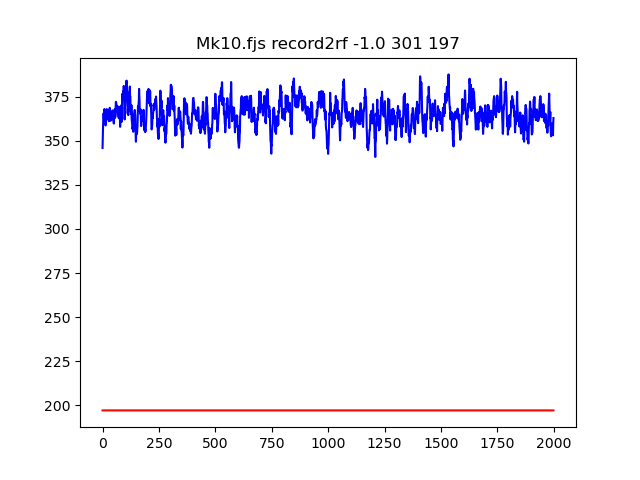
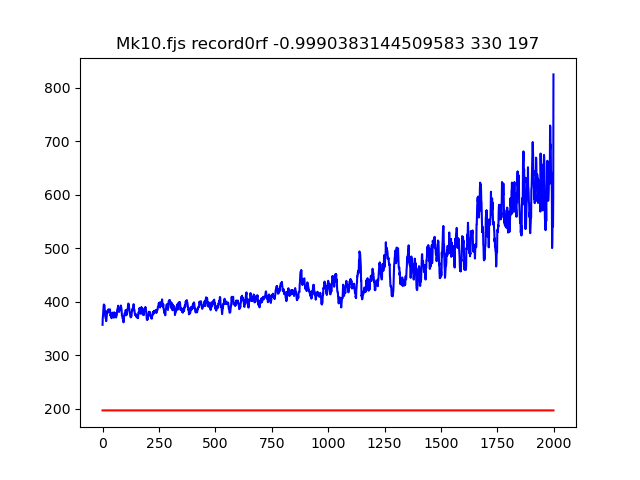
网络和训练代码实现(独立D3QN,网络共享) √ 开始训练    √

diff --git a/scheduling_env/agents.py b/scheduling_env/agents.py
@@ -10,15 +10,20 @@ class Agent():
     def __init__(self,train_params,model_params) -> None:
         
         self.device = train_params['device']
-        self.main_net = None
+        self.main_net = D3QN(
+            state_dim=model_params['state_dim'],
+            action_dim=model_params['action_dim']
+        ).to(self.device)
+        self.target_net = D3QN(
+            state_dim=model_params['state_dim'],
+            action_dim=model_params['action_dim']
+        ).to(self.device)
 
-        self.target_net = None
 
-        # self.target_net.load_state_dict(self.main_net.state_dict())
+        self.target_net.load_state_dict(self.main_net.state_dict())
         
-        # self.optimizer = torch.optim.AdamW(self.main_net.parameters(), lr=train_params['learning_rate'])
-        self.machine_seq_len = model_params['machine_seq_len']
-        self.machine_dim = model_params['machine_dim']
+        self.optimizer = torch.optim.AdamW(self.main_net.parameters(), lr=train_params['learning_rate'])
+
         self.action_dim = model_params['action_dim']
         self.epsilon_start = train_params['epsilon_start']
         self.epsilon_end = train_params['epsilon_end']
@@ -35,42 +40,36 @@ class Agent():
         self.eps_threshold = self.epsilon_end + (self.epsilon_start - self.epsilon_end) * np.exp(
             -1. * step_done / self.epsilon_decay)
         
-        if True or np.random.rand() < self.eps_threshold:
-            return np.random.randint(0,self.action_dim-1)
+        if np.random.rand() < self.eps_threshold:
+            return np.random.randint(0,self.action_dim)
         else:
             with torch.no_grad():
                 state = torch.as_tensor(state).to(self.device,dtype=torch.float).unsqueeze(0)
-                action_mask = torch.as_tensor(action_mask,dtype=torch.bool).to(self.device)
-                q_value = self.main_net(state,action_mask.to(torch.float).unsqueeze(0)).squeeze(0)
-                q_value[~action_mask] = -float('inf')
+                q_value = self.main_net(state).squeeze(0)
                 _,action = torch.max(q_value,dim=-1)
                 action = action.cpu().item()
                 return action
 
     def update(self, transition):
-        "state,actions,next_state,reward,done,next_action_mask"
+        "state,actions,next_state,reward,done"
         states = transition.states
-        actions = transition.actions
+        actions = transition.actions.to(torch.int64)
         rewards = transition.rewards.squeeze(-1)
         dones = transition.dones.squeeze(-1)
         next_states = transition.next_states
-        next_action_masks = transition.next_action_masks.to(torch.bool)
 
         # print(states.shape)
         # print(actions.shape)
         # print(rewards.shape)
         # print(dones.shape)
         # print(next_states.shape)
-        # print(next_action_masks.shape)
-        action_masks = actions[:,1]
-        actions = actions[:,0]
-        q_values = self.main_net(states,action_masks.to(torch.float))
-        Q_values = torch.sum(q_values * actions,dim=1)
+
+        q_values = self.main_net(states)
+        Q_values = q_values.gather(1,actions).squeeze(-1)
         with torch.no_grad():
-            next_q = self.main_net(next_states,next_action_masks.to(torch.float))
-            next_q[~next_action_masks] = -float('inf')
+            next_q = self.main_net(next_states)
             _, max_actions = next_q.max(dim=-1)
-            next_q_values = self.target_net(next_states,next_action_masks.to(torch.float))
+            next_q_values = self.target_net(next_states)
             next_q_values = next_q_values.gather(1,max_actions.unsqueeze(-1)).squeeze(-1)
             Q_targets = rewards + self.gamma * next_q_values * (1 - dones)
 
@@ -82,27 +81,27 @@ class Agent():
         self.optimizer.step()
         with torch.no_grad():
             self.loss += loss.item()
-        # actor_state_dict = self.main_net.state_dict()
-        # target_state_dict = self.target_net.state_dict()
-        # for key in actor_state_dict:
-        #     target_state_dict[key] = actor_state_dict[key] * self.tau + target_state_dict[key] * (1 - self.tau)
-        # self.target_net.load_state_dict(target_state_dict)
-        # if (self.count + 1) % 500 == 0:
-        #     print('loss:',self.loss/500)
-        #     # print('epsilon:',self.eps_threshold)
-        #     self.loss = 0
-        # self.count += 1
+            self.count += 1
+        actor_state_dict = self.main_net.state_dict()
+        target_state_dict = self.target_net.state_dict()
+        for key in actor_state_dict:
+            target_state_dict[key] = actor_state_dict[key] * self.tau + target_state_dict[key] * (1 - self.tau)
+        self.target_net.load_state_dict(target_state_dict)
+        if (self.count + 1) % 500 == 0:
+            print('loss:',self.loss/500)
+            self.loss = 0
+        self.count += 1
         self.count+=1
 
-        if (self.count + 1) % self.target_update == 0:
-            print('loss:',self.loss/self.target_update)
-            actor_state_dict = self.main_net.state_dict()
-            target_state_dict = self.target_net.state_dict()
-            for key in actor_state_dict:
-                target_state_dict[key] = actor_state_dict[key] * self.tau + target_state_dict[key] * (1 - self.tau)
-            self.target_net.load_state_dict(target_state_dict)
-            # print('epsilon:',self.eps_threshold)
-            self.loss = 0
+        # if (self.count + 1) % self.target_update == 0:
+        #     print('loss:',self.loss/self.target_update)
+        #     actor_state_dict = self.main_net.state_dict()
+        #     target_state_dict = self.target_net.state_dict()
+        #     for key in actor_state_dict:
+        #         target_state_dict[key] = actor_state_dict[key] * self.tau + target_state_dict[key] * (1 - self.tau)
+        #     self.target_net.load_state_dict(target_state_dict)
+        #     # print('epsilon:',self.eps_threshold)
+        #     self.loss = 0
 
     def save_model(self, path):
         torch.save(self.main_net.state_dict(), path)

diff --git a/train.py b/train.py
@@ -30,9 +30,8 @@ class Train():
         agent = Agent(train_params, model_params)
         replay_buffer: ReplayBuffer = ReplayBuffer(
             capacity=train_params["buffer_size"],
-            state_seq_len=model_params["job_seq_len"],
+            state_seq_len = model_params["state_seq_len"],
             state_dim=model_params["state_dim"],
-            machine_seq_len=model_params["machine_seq_len"],
         )
         train_data_path = self.data_path + 'train_data/'
         jobs_name = sorted(os.listdir(train_data_path))
@@ -61,24 +60,21 @@ class Train():
                 next_state,  reward, done, truncated = env.step(action)
                 G += reward
                 # 存储经验
-                # action = [1 if i == action else 0 for i in range(model_params['action_dim'])]
-                # action = [action, action_mask]
-                # if done or truncated or state != next_state or np.random.rand() < 0.01:  # 要做优先经验回放更好
-                # replay_buffer.add((state, action, next_state, reward, done))
+                replay_buffer.add((state, action, next_state, reward, done))
                 state = next_state
 
-                if False and replay_buffer.size() >= train_params['minimal_size']:
+                if replay_buffer.size() >= train_params['minimal_size']:
                     transition = replay_buffer.sample(batch_size=train_params['batch_size'])
                     agent.update(transition)
-            data = [x.draw_data for x in env._machine_list]
-            plot = Plotter(False)
-            plot.machine_gant_chat(data)
+            # data = [x.draw_data for x in env._machine_list]
+            # plot = Plotter(False)
+            # plot.machine_gant_chat(data)
             record_makespan[job_name].append(env.time_step)
             record_reward[job_name].append(G)
             print('=================================')
             print(job_name)
             print('time:', env.time_step, '||G: ', G, '||\ttimestep/s:', env.time_step / (time.time() - start_time),
-                  "||\tepsilon:")
+                  "||\tepsilon:", agent.eps_threshold)
             print('=================================')
         
         # agent.save_model(f"models/model{train_params['reward_type']}rf.pth")
@@ -92,7 +88,8 @@ class Train():
 
 
 model_params = {
-    "state_dim": 16,
+    "state_dim": 24,
+    "state_seq_len": 4,
     "machine_dim": 16,
     "action_dim": 5,
     "num_heads": 4,
@@ -101,7 +98,7 @@ model_params = {
     "dropout": 0.05,
 }
 train_params = {
-    "num_episodes": 100,
+    "num_episodes": 2000,
     "batch_size": 512,
     "learning_rate": 6e-6,
     "epsilon_start": 1,

diff --git a/scheduling_env/replay_buffer.py b/scheduling_env/replay_buffer.py
@@ -4,28 +4,26 @@ import numpy as np
 import torch
 
 bufferEntity = namedtuple('Transition',(
-    "state","action","next_state","reward","done","next_action_mask"
+    "state","action","next_state","reward","done",
 ))
 class ReplayBuffer:
     def __init__(self, capacity,
-                    state_seq_len,
-                    state_dim,
-                    machine_seq_len):
+                 state_seq_len,
+                        state_dim,
+                ):
         self.pos = 0
         self.buffer_size = capacity
         self.device = torch.device("cuda") if torch.cuda.is_available() else torch.device("cpu")
 
-        self.entity_size = (state_seq_len*state_dim)*2 + machine_seq_len + 1 + 1
+        self.entity_size = state_dim*2 + 1 + 1 + 1
         self.buffer = torch.zeros((capacity,self.entity_size)).to(self.device)
-        self.state_seq_len = state_seq_len
-        self.machine_seq_len = machine_seq_len
-
+        self.seq_len = state_seq_len
         self.is_full = False
         self.points = [0]
     def add(self,data):
         """
         
-        state,actions,next_state,reward,done,next_action_mask
+        state,actions,next_state,reward,done
 
         """
         self.buffer[self.pos] *= 0
@@ -43,11 +41,11 @@ class ReplayBuffer:
         samples_idx = np.random.randint(0, self.size(), size=batch_size)
         ten = self.buffer[samples_idx, :]
         p = self.points
-        return BufferEntity(ten[:,p[0]:p[1]].reshape((batch_size,self.state_seq_len,-1)),  # state
+        return BufferEntity(ten[:,p[0]:p[1]].reshape(batch_size,self.seq_len,-1),           # state
                             ten[:, p[1]: p[2]],          # action
-                            ten[:, p[2]: p[3]].reshape((batch_size,self.state_seq_len,-1)),                                     # next_state
-                            ten[:, p[3]: p[4]],                                             # reward
-                            ten[:, p[4]: p[5]],                                              # done 
+                            ten[:, p[2]: p[3]].reshape(batch_size,self.seq_len,-1),          # next_state
+                            ten[:, p[3]: p[4]],          # reward                                 # reward
+                            ten[:, p[4]: p[5]],          #done                                    # done 
                             )
 
     def size(self):

diff --git a/scheduling_env/model.py b/scheduling_env/model.py
@@ -13,49 +13,27 @@ class PositionalEncoding(nn.Module):
         pe[:, 1::2] = torch.cos(position * div_term)
         return pe.unsqueeze(0)
 class D3QN(nn.Module):
-    def __init__(self,state_dim,machine_dim,action_dim):
+    def __init__(self,state_dim,action_dim):
         super().__init__()
-        self.machine_dim = machine_dim
-        self.job_linear = nn.Sequential(
-            nn.Linear(state_dim,32),
+        self.linear = nn.Sequential(
+            nn.Flatten(),
+            nn.Linear(state_dim,64),
             nn.LeakyReLU(),
-            nn.Linear(32,1),
+            nn.Linear(64,128),
             nn.LeakyReLU(),
-            nn.Flatten()
+            nn.Linear(128,64)
         )
-        self.machine_linear = nn.Sequential(
-            nn.Linear(machine_dim,16),
-            nn.LeakyReLU(),
-            nn.Linear(16,1),
-            nn.LeakyReLU(),
-        )
-        self.j_m_linear = nn.Sequential(
-            nn.Linear(3,32),
-            nn.LeakyReLU(),
-            nn.Linear(32,64),
-            nn.LeakyReLU(),
-        )
+
         self.A_net = nn.Linear(64,action_dim)
         self.V_net = nn.Linear(64,1)
-    def forward(self,state,action_mask):
-        job_state = state[:,:-1,:]
-        # job_state = job_state.view(job_state.size(0),-1)
-        machine_state = state[:,-1,:self.machine_dim]
-        job_embedding = self.job_linear(job_state).squeeze(1)
-        machine_embedding = self.machine_linear(machine_state)
-        output = torch.cat([job_embedding,machine_embedding],dim=-1)
-        output = self.j_m_linear(output)
+    def forward(self,state):
+        state_embed = self.linear(state)
         # A Net
-        A = self.A_net(output)
+        A = self.A_net(state_embed)
         # V Net
-        V = self.V_net(output)
-        # 计算有效动作的均值
-        valid_A_mean = (A * action_mask).sum(dim=1, keepdim=True) / action_mask.sum(dim=1, keepdim=True)
+        V = self.V_net(state_embed)
 
-        # 对有效动作归一化
-        normalized_A = A - valid_A_mean
-
-        Q = V + normalized_A
+        Q = V + A - A.mean(dim=1,keepdim=True)
         return Q
 
 class PolicyNet(nn.Module):

diff --git a/scheduling_env/training_env.py b/scheduling_env/training_env.py
@@ -146,8 +146,10 @@ class TrainingEnv():
         # 要么结束，要么有机器需要采样动作
         if truncated:
             reward = -1000
+        elif done:
+            reward = 8000/self._time_step
         else:
-            reward = -1
+            reward = -0.01
         if not done and not truncated:
             decision_machines = self.get_decsion_machines()
             self._current_machine = decision_machines[0]

diff --git a/test.py b/test.py
@@ -15,7 +15,7 @@ def moving_average(a, window_size):
     return np.concatenate((begin, middle, end))
 
 
-filename = 'record2rf'
+filename = 'record0rf'
 with open(f'logs/{filename}.json','r') as f:
     record = json.load(f)
 with open('logs/record_sjf2.json','r') as f:

diff --git a/README.md b/README.md
@@ -9,3 +9,8 @@ Hybird flow shop scheduling problems
 今日任务：2025/02/20 
 状态代码的实现 √
 环境逻辑调通  √
+
+
+今日任务：2025/02/21
+网络和训练代码实现(独立D3QN,网络共享) √
+开始训练    √
